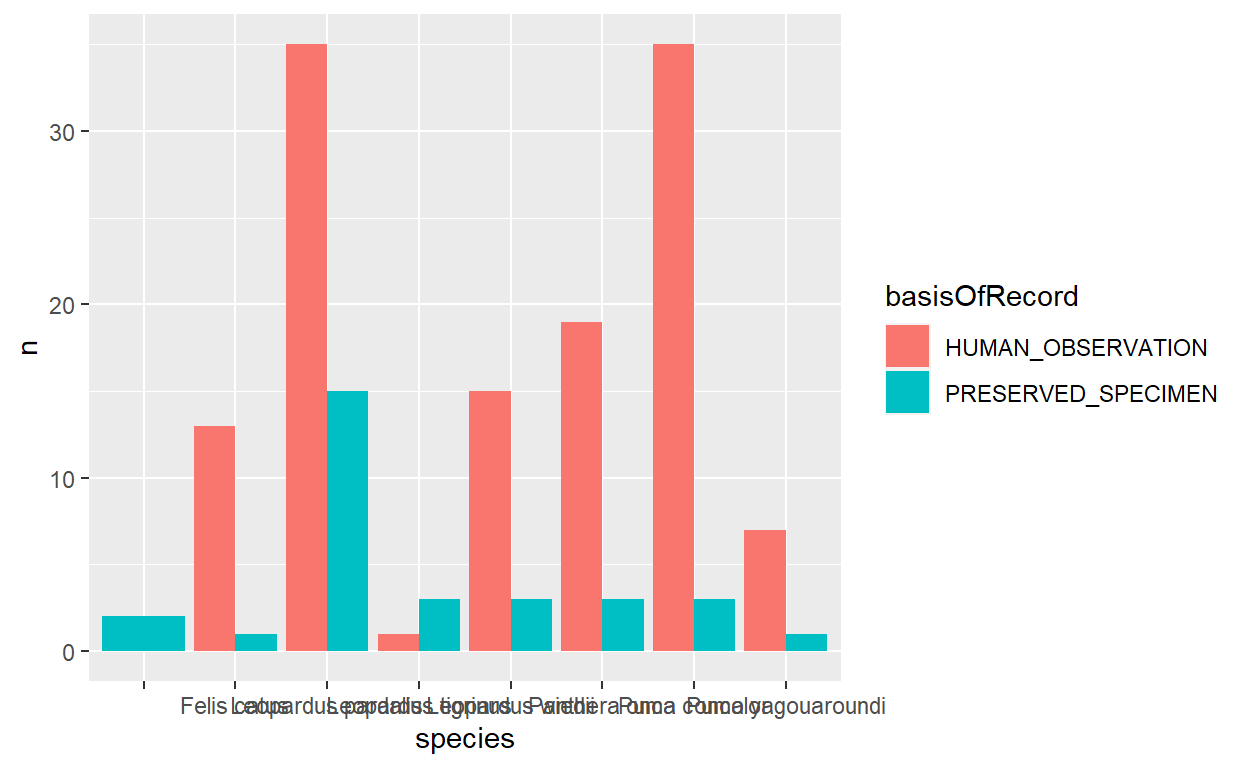
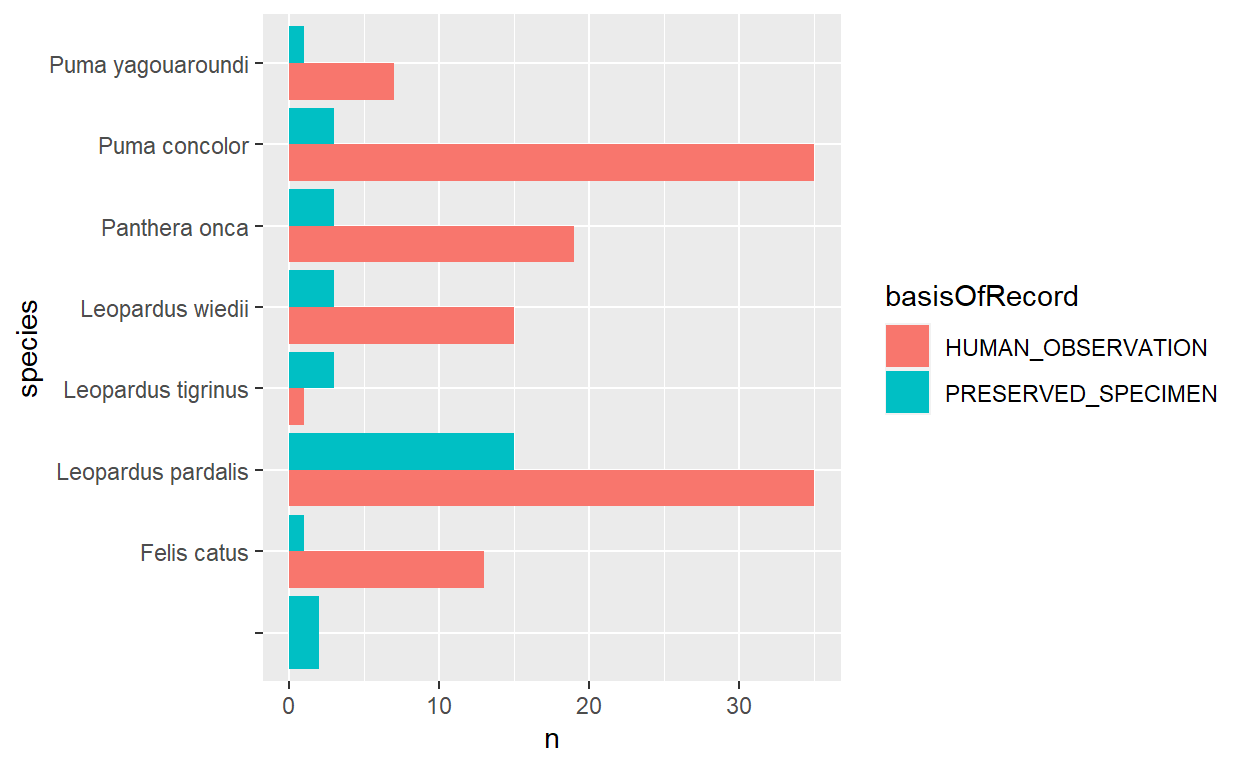
Modificar sección 02

diff --git a/docs/02-r-graficacion-barras.html b/docs/02-r-graficacion-barras.html
@@ -2457,8 +2457,11 @@ code span.wa { color: #5e5e5e; font-style: italic; } /* Warning */
 <li><a href="#paquete-base">Paquete base</a>
 <ul>
 <li><a href="#barras-simples">Barras simples</a></li>
+</ul></li>
+<li><a href="#ggplot2">ggplot2</a>
+<ul>
+<li><a href="#barras-apiladas">Barras apiladas</a></li>
 <li><a href="#barras-agrupadas">Barras agrupadas</a></li>
-<li><a href="#barras-agrupadas-1">Barras agrupadas</a></li>
 </ul></li>
 </ul></li>
 </ul>
@@ -2604,8 +2607,10 @@ En los siguientes ejemplos y ejercicios, se utilizará un conjunto de registros 
 </div>
 <p><img src="02-r-graficacion-barras_files/figure-html5/unnamed-chunk-7-1.png" width="624" /></p>
 </div>
-<p><strong>Ejercicio: haga un gráfico de barras que muestre la cantidad de registros por especie de felinos o de caninos.</strong></p>
-<h3 id="barras-agrupadas">Barras agrupadas</h3>
+<p><strong>Ejercicio:<br />
+Haga un gráfico de barras que muestre la cantidad de registros por especie de felinos o de caninos.</strong></p>
+<h2 id="ggplot2">ggplot2</h2>
+<h3 id="barras-apiladas">Barras apiladas</h3>
 <p><strong>Cantidad de registros de felinos por especie y tipo de registro (<em>basis or record</em>)</strong></p>
 <div class="layout-chunk" data-layout="l-body">
 <div class="sourceCode">
@@ -2620,12 +2625,13 @@ En los siguientes ejemplos y ejercicios, se utilizará un conjunto de registros 
   <span class='va'>registros_felidae_agrupados_x_especie_tiporegistro</span>, 
   <span class='fu'><a href='https://ggplot2.tidyverse.org/reference/aes.html'>aes</a></span><span class='op'>(</span>x <span class='op'>=</span> <span class='va'>species</span>, y <span class='op'>=</span> <span class='va'>n</span>, fill <span class='op'>=</span> <span class='va'>basisOfRecord</span><span class='op'>)</span>
 <span class='op'>)</span> <span class='op'>+</span>
-  <span class='fu'><a href='https://ggplot2.tidyverse.org/reference/geom_bar.html'>geom_col</a></span><span class='op'>(</span><span class='op'>)</span>
+  <span class='fu'><a href='https://ggplot2.tidyverse.org/reference/geom_bar.html'>geom_col</a></span><span class='op'>(</span><span class='op'>)</span> <span class='op'>+</span>
+  <span class='fu'><a href='https://ggplot2.tidyverse.org/reference/coord_flip.html'>coord_flip</a></span><span class='op'>(</span><span class='op'>)</span>
 </code></pre>
 </div>
 <p><img src="02-r-graficacion-barras_files/figure-html5/unnamed-chunk-8-1.png" width="624" /></p>
 </div>
-<h3 id="barras-agrupadas-1">Barras agrupadas</h3>
+<h3 id="barras-agrupadas">Barras agrupadas</h3>
 <p><strong>Cantidad de registros de felinos por especie y tipo de registro (<em>basis or record</em>)</strong></p>
 <div class="layout-chunk" data-layout="l-body">
 <div class="sourceCode">
@@ -2634,11 +2640,17 @@ En los siguientes ejemplos y ejercicios, se utilizará un conjunto de registros 
   <span class='va'>registros_felidae_agrupados_x_especie_tiporegistro</span>, 
   <span class='fu'><a href='https://ggplot2.tidyverse.org/reference/aes.html'>aes</a></span><span class='op'>(</span>x <span class='op'>=</span> <span class='va'>species</span>, y <span class='op'>=</span> <span class='va'>n</span>, fill <span class='op'>=</span> <span class='va'>basisOfRecord</span><span class='op'>)</span>
 <span class='op'>)</span> <span class='op'>+</span>
-  <span class='fu'><a href='https://ggplot2.tidyverse.org/reference/geom_bar.html'>geom_col</a></span><span class='op'>(</span>position <span class='op'>=</span> <span class='st'>"dodge"</span><span class='op'>)</span>
+  <span class='fu'><a href='https://ggplot2.tidyverse.org/reference/geom_bar.html'>geom_col</a></span><span class='op'>(</span>position <span class='op'>=</span> <span class='st'>"dodge"</span><span class='op'>)</span> <span class='op'>+</span>
+  <span class='fu'><a href='https://ggplot2.tidyverse.org/reference/coord_flip.html'>coord_flip</a></span><span class='op'>(</span><span class='op'>)</span>
 </code></pre>
 </div>
 <p><img src="02-r-graficacion-barras_files/figure-html5/unnamed-chunk-9-1.png" width="624" /></p>
 </div>
+<p><strong>Ejercicio:<br />
+Para los dos últimos gráficos:<br />
+- Ordene las barras por tamaño, de mayor a menor.<br />
+- Coloque las etiquetas de cantidades (n) al final de cada barra.<br />
+- Agregue títulos para los gráficos y para los ejes x e y.</strong></p>
 <div class="sourceCode" id="cb1"><pre class="sourceCode r distill-force-highlighting-css"><code class="sourceCode r"></code></pre></div>
 <!--radix_placeholder_article_footer-->
 <!--/radix_placeholder_article_footer-->
